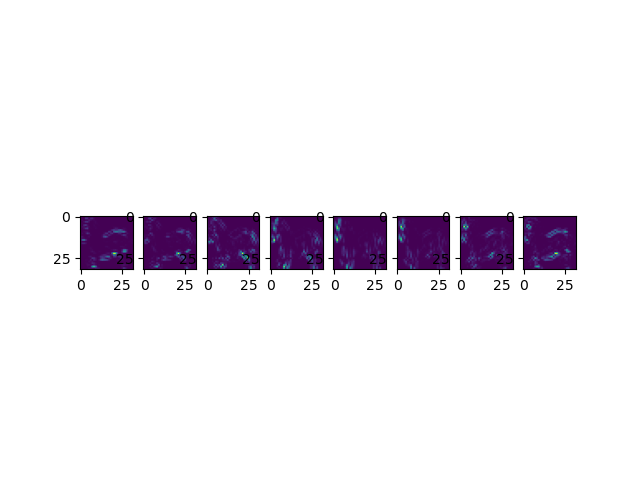
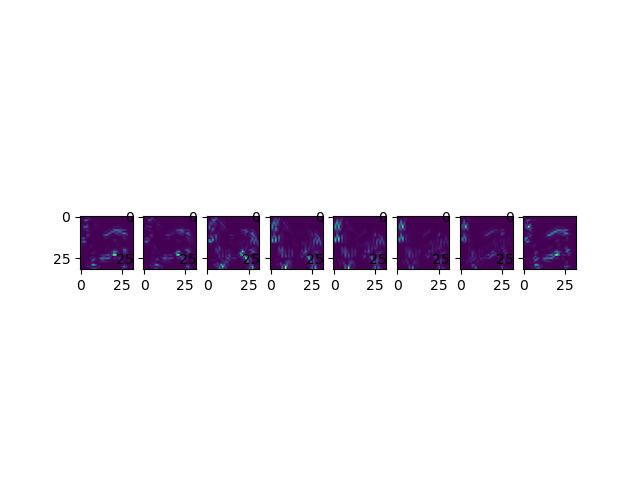
Added another type of filter and more comments

diff --git a/src/methods/oriented_edge_features.py b/src/methods/oriented_edge_features.py
@@ -11,16 +11,49 @@ from scipy import signal, misc
 ######## FUNCTIONS TO CREATE FILTERS TO EXTRACT ENERGY FEATURES
 ###############################################################
 
+# Below are implemented filters to extract oriented energy features
+# f1 is the even filter, f2 the odd one. see https://link.springer.com/content/pdf/10.1023/A:1011174803800.pdf
+# (page 11)
+# https://dspace.mit.edu/bitstream/handle/1721.1/3240/P-2075-24919425.pdf?sequence=1&isAllowed=y is also useful
+# to under
+
 def f1(x, y, sigma, l, C):
+    """ Even filter. Sigma is the std deviation of one of the Gaussian, l is the ratio sigma1/sigma2
+    that characterizes the elongation of the filter. See the article for more precision.
+    C is a normalisation constant.
+    """
     trmy = 2/sigma**2 * (2/sigma**2*y**2-1)*np.exp(-y**2/sigma**2)
     return trmy/C*np.exp(-x**2/(l**2*sigma**2))
 
-def rotate_f1(x,y,sigma,l,C, theta):
+def f2(x,y,sigma, l, C):
+    """
+    Odd filter.
+    :param x:
+    :param y:
+    :param sigma: standard deviation of the gaussian in y
+    :param l: ratio
+    :param C: normalisation constant
+    :return: the value in x, y
+    """
+    trmy = -2*y/sigma**2*np.exp(-y**2/sigma)
+    return trmy/C*np.exp(-x**2/(l**2*sigma**2))
+
+
+def rotate_f(x,y,f, theta):
+    """ Apply a rotation of theta to the function f"""
     x_ = np.cos(theta)*x + np.sin(theta)*y
     y_ = -np.sin(theta)*x + np.cos(theta)*y
-    return f1(x_,y_,sigma,l,C)
+    return f(x_,y_)
 
-def create_filters(nb,sigma,l,C,size,born):
+def create_filters(nb,size,born,f):
+    """
+
+    :param nb: number of orientations
+    :param size: number of pixels in the convolution kernel
+    :param born: the filter is computed on [-bound, bound]**2
+    :param f: the filter to use
+    :return: a list of convolutions kernels
+    """
     grid = np.linspace(-born, born, size)
     x,y = np.meshgrid(grid, grid)
 
@@ -28,7 +61,7 @@ def create_filters(nb,sigma,l,C,size,born):
     step = np.pi/nb
     angle = 0
     for i in range(nb):
-        z = rotate_f1(x,y,sigma,l,C,angle)
+        z = rotate_f(x,y,f,angle)
         filters.append(z.copy())
         angle+=step
     return filters
@@ -133,7 +166,10 @@ def non_max_suppression(img,angle):
 
 class multi_level_energy_features():
 
-    def __init__(self, size_min,filters, nbins, bound, gray = False, sum = True):
+    """ Compute oriented gradient histograms for different sizes of tiles from taking the entire
+    image to size_min tiling of the image"""
+
+    def __init__(self, size_min,filters, gray = False):
 
         self.size_min = size_min
         self.gray = gray # Compute the energy response on the gray level image or on each color individually
@@ -141,44 +177,36 @@ class multi_level_energy_features():
         self.filters = filters
         self.tile_sizes = [32//2**i for i in range(self.nb_levels)]
         self.weights = [1/(2**self.nb_levels)] + [1/(2**self.nb_levels - i + 1) for i in range(1,self.nb_levels)]
-        self.sum = sum
-        self.nbins = nbins
-        self.bound = bound
+
 
     def transform(self,image):
         ''' Return the multi-level energy histogram representation of the array (32,32) image'''
 
         # First apply the energy filters
-        energy_img = apply_filters(image,self.filters) # Big image of size (32*nb_filters ,32)
+        energy_img = apply_filters(image,self.filters) # list of images
 
-        # Apply non max suppression
+        # Apply non max suppression to the square of the transformed images (unsigned gradient)
         for i,im in enumerate(energy_img):
             energy_img[i] = non_max_suppression(im**2,i)
             # energy_img[i] = im**2
 
+        # Transform in a big array of size (32*nb_filters ,32)
         energy_img = np.concatenate(energy_img)
 
-        # Then normalize in each 16*16 squares accross directions
+        # Then normalize in each 16*16 squares accross filters directions
         energy_img = normalize16(energy_img).reshape(-1,32)
 
-
-
-        # Then tile the image and sum the normalized response in each tile
+        # Then tile the image at different levels and sum the normalized response in each tile
         level_hist = []
         for i,sz in enumerate(self.tile_sizes):
             tiles = tile(energy_img,sz)
-            # histograms = 1/(4**(self.nb_levels - i))* np.sum(tiles, axis=(1,2))
-            if self.sum :
-                histograms = self.weights[i]*np.sum(np.abs(tiles), axis=(1,2 ))
-                level_hist.append(histograms)
-            else :
-                for t in tiles:
-                    level_hist.append(np.histogram(np.abs(t), self.nbins, range=[-self.bound, self.bound], density=True)[0])
+            histograms = self.weights[i]*np.sum(np.abs(tiles), axis=(1,2 ))
+            level_hist.append(histograms)
 
         return np.concatenate(level_hist)
 
     def transform_rgb(self,im):
-        """Compute the level_histograms representation for each channel and concatenate"""
+        """Compute the level_histograms representation for each channel of RGB image (32*32*3) and concatenate"""
         imR, imG, imB = im[:1024].reshape(32, 32), im[1024:2048].reshape(32, 32), im[2048:].reshape(32, 32)
 
         if self.gray:
@@ -275,12 +303,13 @@ def main():
     plt.savefig('gray_img.png')
 
     # Create and visualize filters
-    filters = create_filters(8,1,3,1,3,1)
+    filters = create_filters(8,3,1,lambda x,y : f2(x,y,sigma=1,l=3,C=1))
     print(filters[0])
     fig, ax = plt.subplots(1, len(filters))
     for i,z in enumerate(filters):
         ax[i].imshow(z)
-    plt.savefig('filters.png')
+    plt.savefig('filtersf2.png')
+
 
     # Visualize the effect on the image
     transformed_images = apply_filters(gray,filters)

diff --git a/examples/main_one_vs_rest.py b/examples/main_one_vs_rest.py
@@ -53,7 +53,7 @@ if not write_test_results:
 # Xte = en_hist.transform_all(Xte) + 1e-5
 
 # Transform into multilevel energy features
-filters = create_filters(8, 1, 3, 1, 3, 1)
+filters = create_filters(8, 3, 1, lambda x,y : f2(x,y,1,3,1))
 mlef = multi_level_energy_features(8 ,filters, 15, 0.5)
 Xtr = mlef.transform_all(Xtr) +1e-6
 Xte = mlef.transform_all(Xte) + 1e-6
